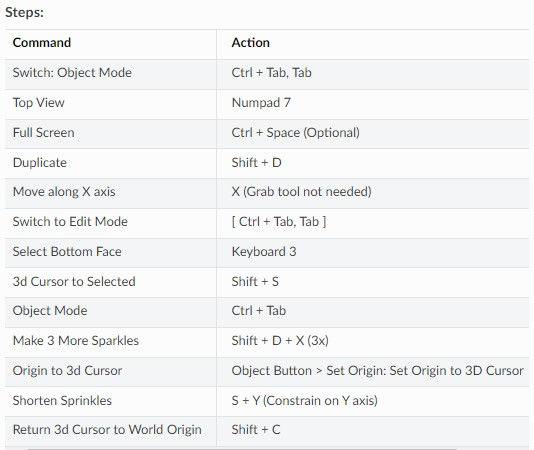
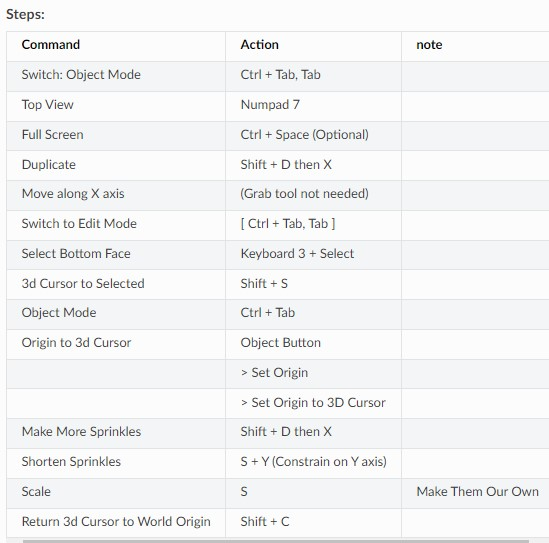
Updated 10-B with both records and screenshare overlay.

diff --git a/doc/DonutTutorial.md b/doc/DonutTutorial.md
@@ -2481,7 +2481,57 @@ Be sure to select an object, then RMB > Smooth Shade
 
 ---
 
+### Move Pivot
+
+::::{important} 
+Learning to work with an object's pivot point is important for most digital software.    
+Blender has an 'Origin Point' and a '3d Cursor'.  
+The "game" involves manipulating these two points in space.  
+- Edit Mode > Shift + S: Cursor to Selected.   
+- Object Mode > Object button > 'Set Origin'  > 'Set Origin to 3d Cursor'  
+Lessons from:
+[Kev Binge: Blender Quick Tip to Move Object Origin and Pivot](https://youtu.be/q_SiM8PIXtI)  
+- We can also use, Object Mode > Mesh > Snap  
+  instead of 'Cursor to Selected': [Snap Cursor](https://youtu.be/ns14pmFwZ2M?t=57)  
+- From 'N': 'View', [Move 3d Cursor](https://youtu.be/ns14pmFwZ2M?t=125).
+::::
+
+| Command | Action |
+| ------- |------ |
+| Move Pivot | Pie Menu: Shift + S | 
+| | ![Pivot Menus](./Images/Hot_Keys/10-A_Shift-S-Pivot.gif)|
+| Example | Edit Mode > Hot key 'A' Selects all of the Cube |
+|  | ![Pivot Example](./Images/Hot_Keys/10-A2_Move-Pivot.gif) |
+| Center Pivot |![Center Menus](./Images/Hot_Keys/10-A3_Center-Pivot-to-Object.gif)| | 
+| Hide 3d Cursor |![Hide 3d Cursor](./Images/Hot_Keys/10-A4_Cursor-to-World-Origin.gif)| | 
+
+#### Center Pivot
+```{note}
+:class: warning
+**Center Pivot:** Object Mode > Object button > Origin to Center of [Geometry, Mass, Volume]  
+
+```
+
+::::{important} 
+- Shift + S > Cursor to World Origin.   
+  This will "hide" the 3d Cursor at (0,0,0).
+- Shift + C. Set 3D Cursor to Origin.  
+  This will also return the cursor to the World Origin.
+::::
+
+---
+
+<div class="admonition note" name="html-admonition" style="background: lightgreen; padding: 10px">
+<p class="title"> </p>
+
+</div>
+ 
+
 ### Add Variants of Sprinkle
+
+:::{card} 
+We don't want all our sprinkles to look alike. So we will add variations of shape and colors.
+:::
 
 :::{card} Steps:
 | Command | Action |note |
@@ -2489,15 +2539,18 @@ Be sure to select an object, then RMB > Smooth Shade
 | Switch: Object Mode | Ctrl + Tab, Tab | |  |
 | Top View | Numpad 7  |  |
 | Full Screen | Ctrl + Space (Optional) |
-| Duplicate | Shift + D | |
-| Move along X axis | X (Grab tool not needed)||
+| Duplicate | Shift + D then X | |
+| Move along X axis | (Grab tool not needed)||
 | Switch to Edit Mode | [ Ctrl + Tab, Tab ] | 
-| Select Bottom Face | Keyboard 3 |  |
+| Select Bottom Face | Keyboard 3 + Select |  |
 | 3d Cursor to Selected | Shift + S |  |
-| Object Mode | Ctrl + Tab |  |
-| Make 3 More Sparkles | Shift + D + X (3x) | 
-| Origin to 3d Cursor | Object Button > Set Origin: Set Origin to 3D Cursor |  |
+| Object Mode | Ctrl + Tab |  | 
+| Origin to 3d Cursor | Object Button |
+|                     | > Set Origin | 
+|                     | > Set Origin to 3D Cursor | 
+| Make More Sprinkles | Shift + D then X |  |
 | Shorten Sprinkles | S + Y (Constrain on Y axis) | | 
+| Scale | S | Make Them Our Own |
 | Return 3d Cursor to World Origin | Shift + C ||
 
 :::
@@ -2534,55 +2587,7 @@ Be sure to select an object, then RMB > Smooth Shade
 
 ---
 
-### Move Pivot
-
-::::{important} 
-Learning to work with an object's pivot point is important for most digital software.    
-Blender has an 'Origin Point' and a '3d Cursor'.  
-The "game" involves manipulating these two points in space.  
-- || Edit Mode || Shift+S: 'Cursor to Selected'.   
-- || Object Mode || 'Object' button > 'Set Origin'  > 'Set Origin to 3d Cursor'  
-Lessons from:
-[Kev Binge: Blender Quick Tip to Move Object Origin and Pivot](https://youtu.be/q_SiM8PIXtI)  
-- We can also use, || Object Mode || Mesh > Snap instead of 'Cursor to Selected': [Snap Cursor](https://youtu.be/ns14pmFwZ2M?t=57)  
-- From 'N': 'View', [Nude 3d Cursor](https://youtu.be/ns14pmFwZ2M?t=125).
-::::
-
-| Command | Action |
-| ------- |------ |
-| Move Pivot | Pie Menu: Shift + S | 
-| | ![Pivot Menus](./Images/Hot_Keys/10-A_Shift-S-Pivot.gif)|
-| Example \|\| Edit Mode \|\| Hot key 'A' Selects all of the Cube |
-|  | ![Pivot Example](./Images/Hot_Keys/10-A2_Move-Pivot.gif) |
-| Center Pivot |![Center Menus](./Images/Hot_Keys/10-A3_Center-Pivot-to-Object.gif)| | 
-| Hide 3d Cursor |![Hide 3d Cursor](./Images/Hot_Keys/10-A4_Cursor-to-World-Origin.gif)| | 
-
-#### Center Pivot
-```{note}
-:class: warning
-**Center Pivot:** Object Mode \ Object button > Origin to Center of [Geometry, Mass, Volume]  
-
-```
-
-::::{important} 
-- Shift + S > Cursor to World Origin. This will "hide" the 3d Cursor at (0,0,0).
-- Shift + C. Set 3D Cursor to Origin.
-::::
-
----
-
-:::{card} Add Next Sprinkle
-
-| Command | Action |Value |
-| ------- |------ |-----|
-| Select First Sprinkle |  |  |
-| Duplicate | Shift + D |  |
-| Shorten | 'G' |  |
-
-:::
-
----
-
+%% Bend Sprinkles
 <div class="admonition note" name="html-admonition" style="background: lightgreen; padding: 10px">
 <p class="title"> </p>
 
@@ -2591,11 +2596,37 @@ Lessons from:
 #### Bend Sprinkles
 
  :::{card} 
- Next we deform our sprinkles.
+ Next we bend our sprinkles.
 
 | Command | Action |Value |
 | ------- |------ |-----|
+| Top View | Numpad 7 |  |
+| Validate Location of Rotation | R |  |
+| Reset Origin to Center of Object | Object Button |  |
+|  | Set Origin |  |
+|  | Origin to Geometry |  |
 |  |  |  |
+| Edit Mode | Ctrl + Tab |  |
+| Add Edge Loop | Ctrl + R over Object |  |
+| Add Loops | Scroll MMB Forward |  |
+| Switch to Faces | Keyboard 3| |
+| Select Loop | Alt + Select |  |
+| Top View | Numpad 7 |  |
+| Move along X | G + X  |  |
+|  |  |  |
+| Activate Porportional Editing | Button |  |
+| Switch to Wireframe | Z > Wireframe |  |
+| Select Top Row |  |  |
+| Rotate | R |  |
+|  | Scroll MMB for Radius  |  |
+| Switch to Object Mode | Ctrl + Tab |  |
+
+```{note} 
+:class: warning
+- If the radius for proportional falloff does not appear, just keep scrolling forward.  
+- The default radius is in meters, our scene is small.
+```
+
 
  :::
 
